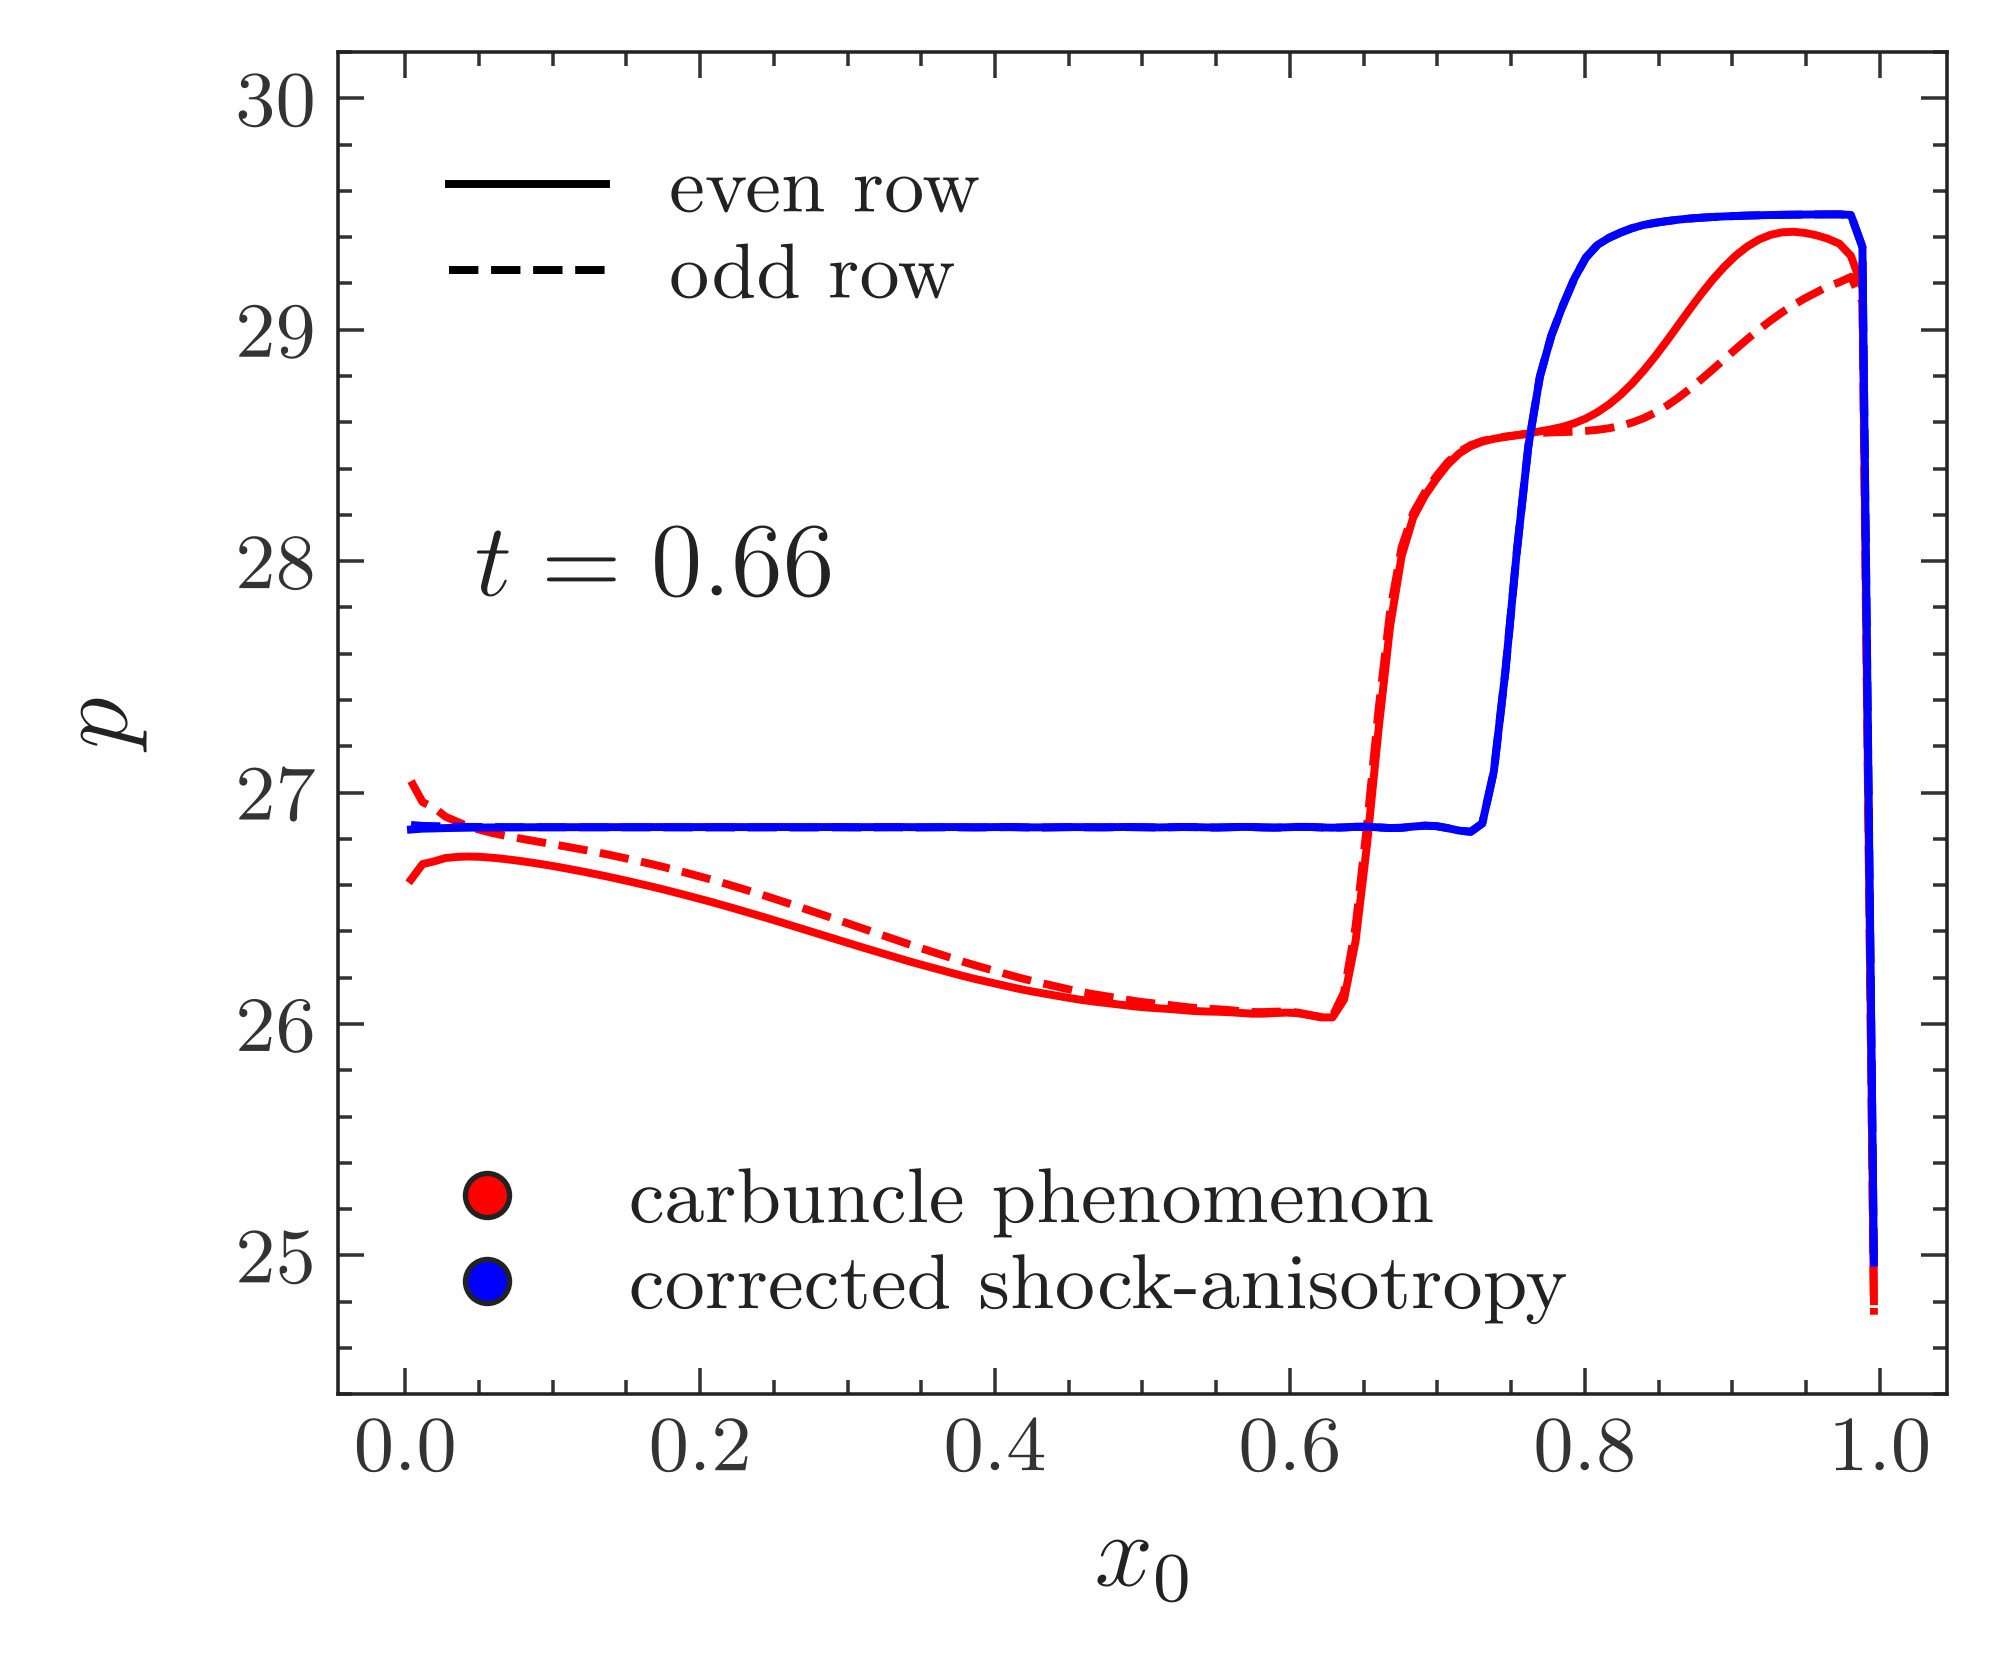
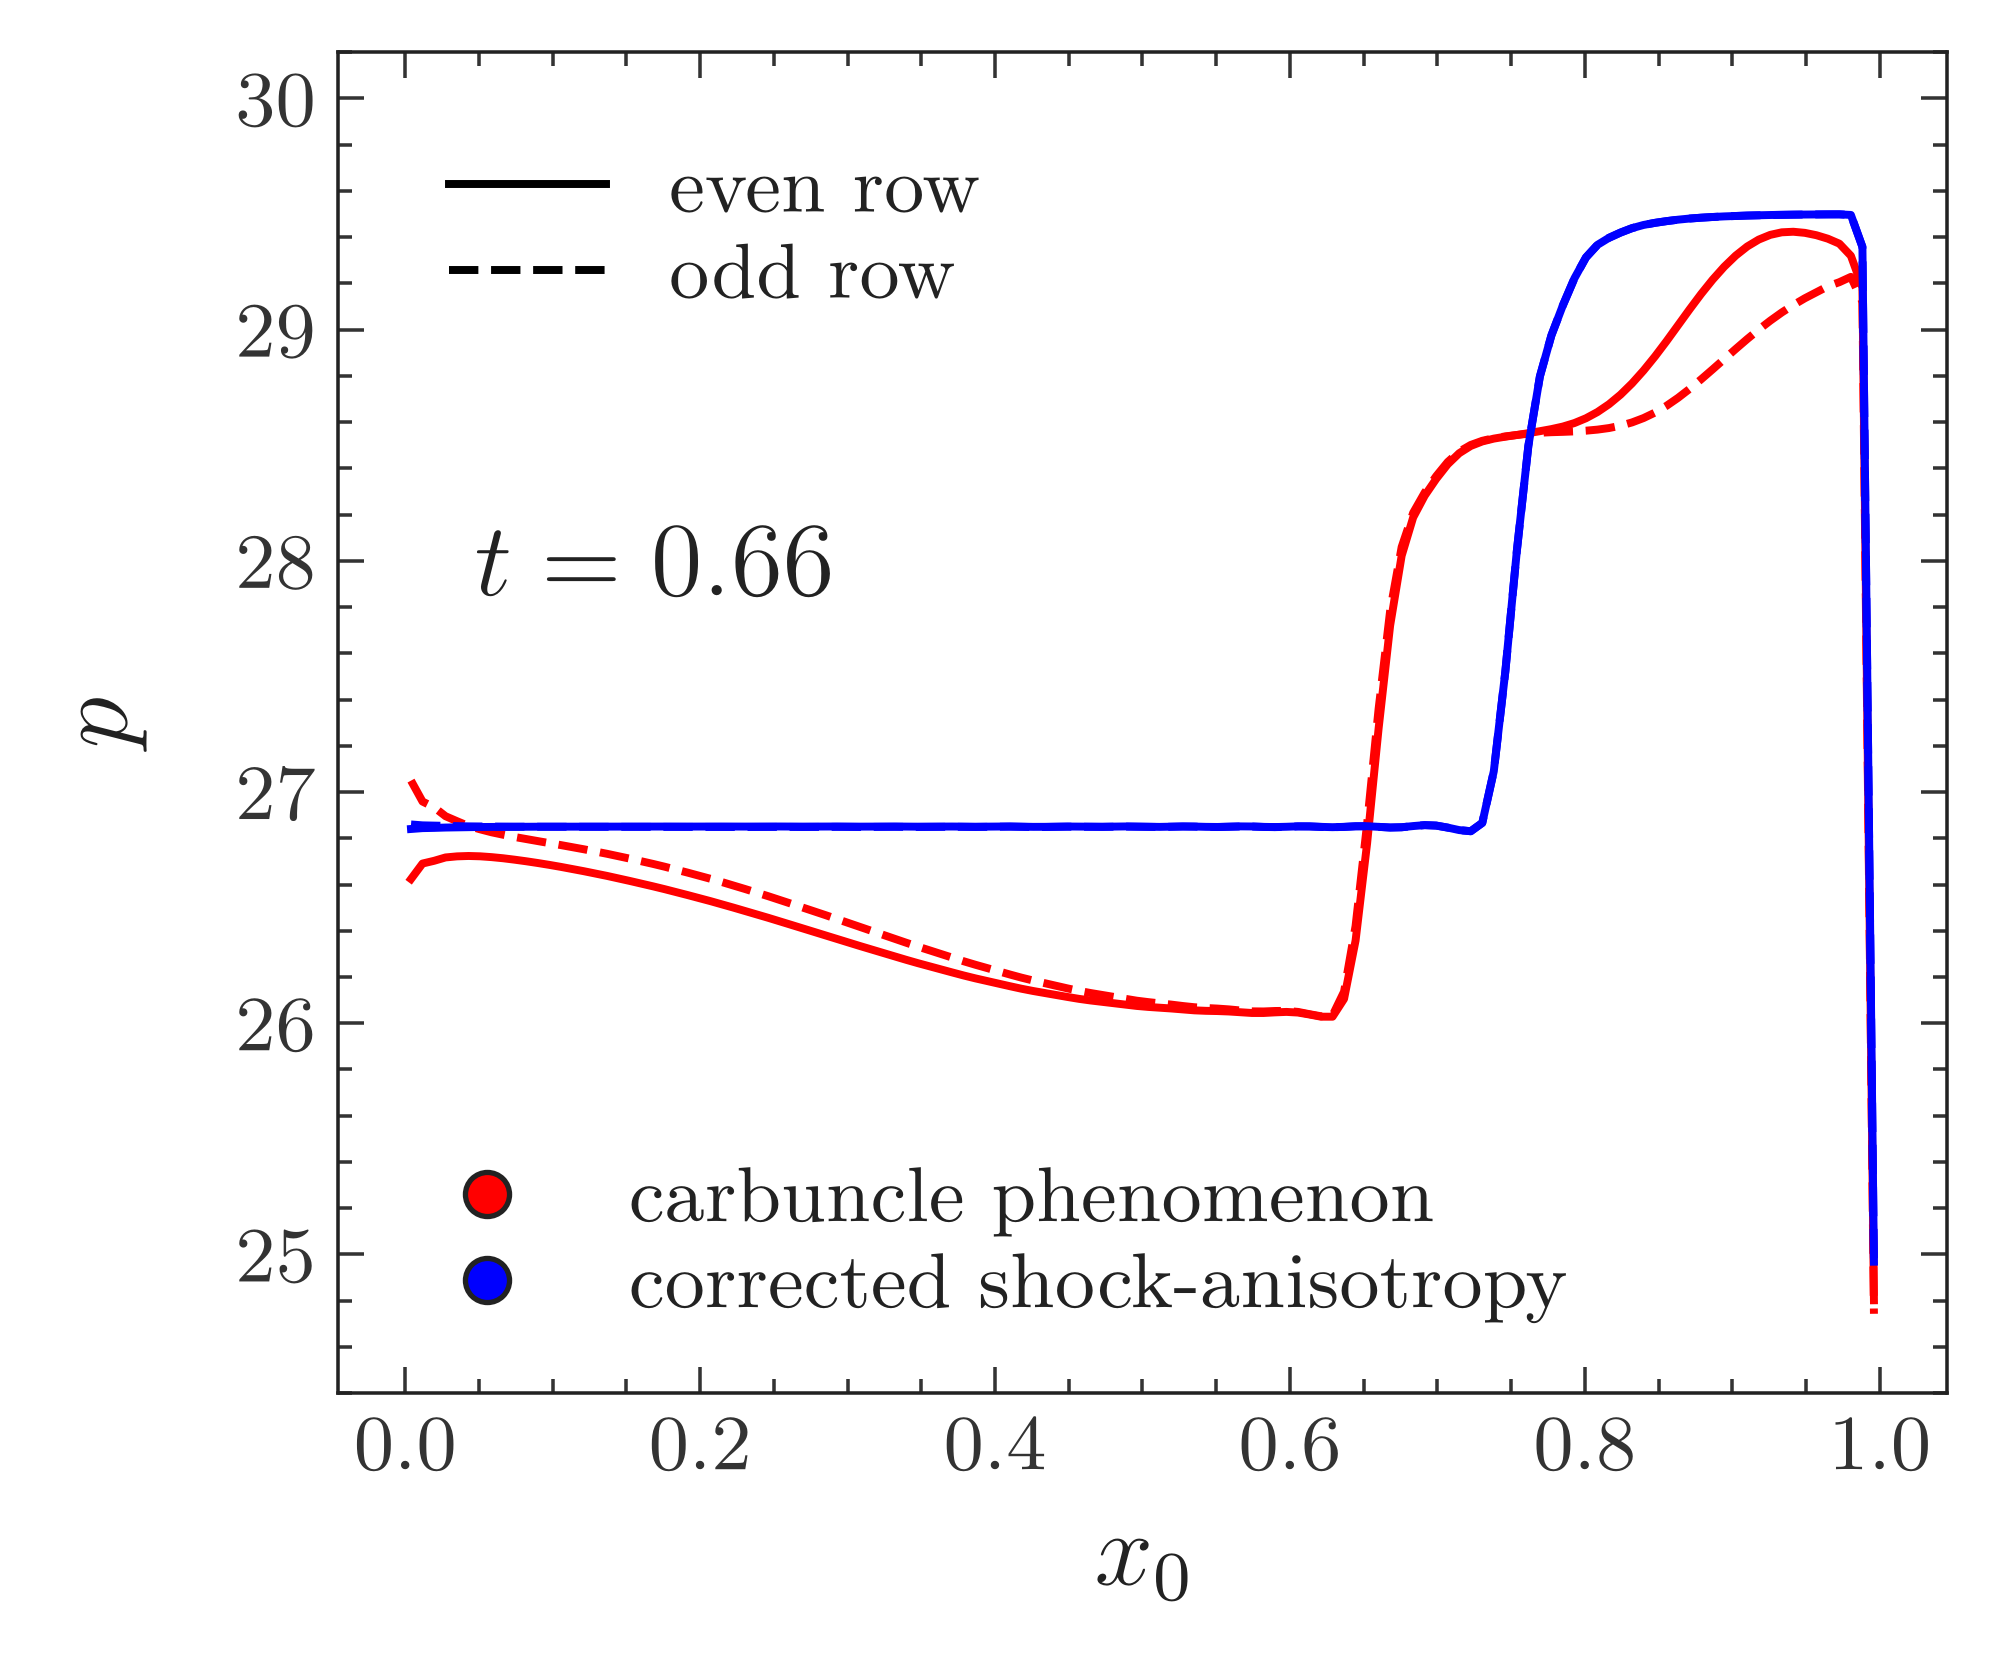
update-file(odd-even-split): fraction aspect ratio; adopt paper_style; fix imports; num_cells path.

Changed region(s): [[0.217, 0.4922, 0.279, 0.5229]]

diff --git a/scripts/problems/quirk/plot_odd_even_split.py b/scripts/problems/quirk/plot_odd_even_split.py
@@ -10,12 +10,16 @@ from pathlib import Path
 
 ## third-party
 import numpy
-from numpy.typing import NDArray
+
+from numpy import typing as numpy_typing
 
 ## personal
-from jormi.ww_io import manage_io, manage_log
+from jormi.ww_io import manage_io
 from jormi.ww_plots import annotate_panel, manage_figure, style_figure
 from jormi.ww_types import box_positions
+
+## local
+from local_helpers import paper_style
 
 ##
 ## === DATA STRUCTURES
@@ -25,7 +29,7 @@ from jormi.ww_types import box_positions
 @dataclass(frozen=True)
 class PressureSnapshot:
     step_time: float
-    pressure: NDArray[numpy.floating]
+    pressure: numpy_typing.NDArray[numpy.floating]
 
 
 ##
@@ -36,7 +40,7 @@ class PressureSnapshot:
 COMBO_OFF = "q26-b25-ppm_ep-no-carbuncle-fix"
 COMBO_ON = "q26-b25-ppm_ep"
 ROOT_DIR = Path(__file__).parents[3]
-DATASET_ROOT = ROOT_DIR / "datasets/problems/quirk/ncells=128"
+DATASET_ROOT = ROOT_DIR / "datasets/problems/quirk/num_cells=128"
 FIGURE_PATH = ROOT_DIR / "figures/problems/quirk/ncells=128/odd_even_split.png"
 
 ## annotations
@@ -100,15 +104,7 @@ def plot_even_odd_profiles(
 
 
 def main() -> None:
-    manage_log.set_block_width_mode(mode=manage_log.BlockWidthMode.PRACTICAL)
-    default_text_sizes = style_figure.TextSizeParams()
-    style_figure.set_figure_params(
-        figure_params=style_figure.FigureParams(
-            text_size_params=style_figure.TextSizeParams(
-                legend_level=default_text_sizes.annotation_level,
-            ),
-        ),
-    )
+    paper_style.setup_plotting_script()
     manage_io.create_directory(
         directory=FIGURE_PATH.parent,
         verbose=False,
@@ -118,7 +114,8 @@ def main() -> None:
     representative_off = snapshots_off[-1]
     representative_on = snapshots_on[-1]
     figure, panel = manage_figure.create_figure(
-        panel_aspect_ratio=1.199,
+        ## chosen by eye
+        panel_aspect_ratio=6.0 / 5.0,
         ## drawn at the width the paper prints it at, so its text is the size it asks for
         figure_layout=style_figure.FigureLayout(
             figure_width=style_figure.FigureWidth(width_fraction=0.5),
@@ -147,7 +144,7 @@ def main() -> None:
         x_alignment=box_positions.Positions.Side.Left,
         y_alignment=box_positions.Positions.Side.Top,
         ## math italic reads smaller than upright text, so this sits with the axis labels
-        text_size_pt=default_text_sizes.axis_label_size_pt,
+        text_size_pt=paper_style.FIGURE_PARAMS.text_size_params.axis_label_size_pt,
     )
     annotate_panel.add_custom_legend(
         panel=panel,
